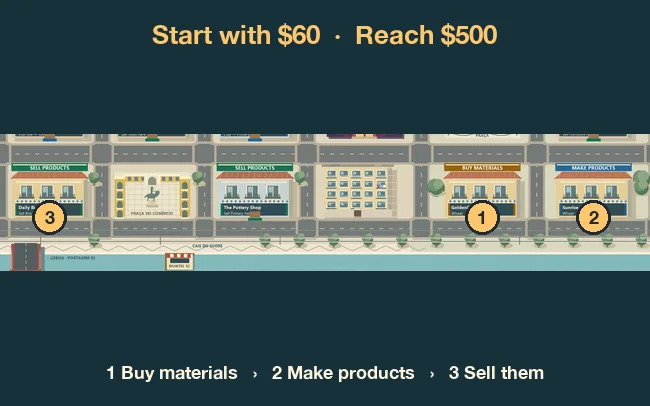
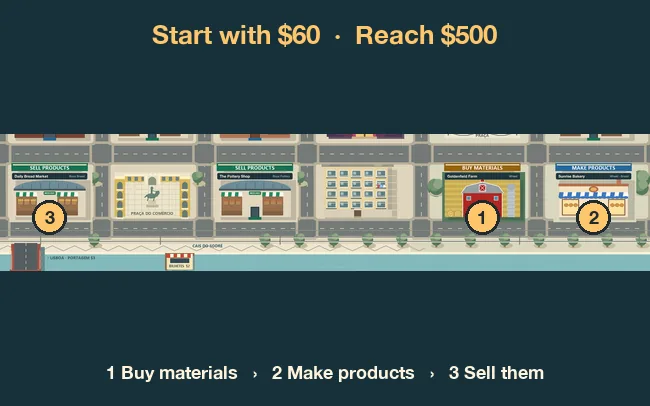
Give each trade building its own look and fix vehicles on the road
- Farms are red barns with a silo and wheat; the mine, sawmill and clay pit each have their own scene
- Each workshop looks different (ironworks, carpentry, kiln, bakery); all markets share one market hall
- Purpose signs, doors and collisions are unchanged; night versions have lit windows
- The motorbike and car sit on their shadow instead of floating, and vehicles show headlight beams at night
- Tutorial slides rebuilt with the new buildings

diff --git a/street/street.js b/street/street.js
@@ -381,12 +381,17 @@ function draw() {
   context.scale(facing < 0 ? -1 : 1, 1);
   context.fillStyle = "#1b292788";
   context.beginPath();
-  context.ellipse(0, 2, 14, 5, 0, 0, Math.PI * 2);
-  context.fill();
   if (state.vehicle) {
+    // A flat shadow right under the wheels, which touch the ground at y = 1 (the art's wheels end at
+    // 107 of its 120-pixel height), so thin vehicles like the motorcycle don't look like they float.
+    context.ellipse(0, 1, 17, 3, 0, 0, Math.PI * 2);
+    context.fill();
+    if (state.night) drawBeam(28, -10, 7, 70);  // From the headlamp at the vehicle's front
     const art = vehicleArt[state.vehicle];
-    if (art?.complete && art.naturalWidth) context.drawImage(art, -30, -34, 60, 36);
+    if (art?.complete && art.naturalWidth) context.drawImage(art, -30, -31, 60, 36);
   } else {
+    context.ellipse(0, 2, 14, 5, 0, 0, Math.PI * 2);
+    context.fill();
     drawWalker();
   }
   context.restore();
@@ -485,6 +490,21 @@ function drawShuttle(t, left, top, width, height) {
   context.restore();
 }
 
+// A soft cone of headlight, pointing along +x from the car's front (callers flip x for direction).
+function drawBeam(front, centre, halfWidth, reach = 58) {
+  const glow = context.createLinearGradient(front, 0, front + reach, 0);
+  glow.addColorStop(0, "rgba(255, 238, 170, 0.55)");
+  glow.addColorStop(1, "rgba(255, 238, 170, 0)");
+  context.fillStyle = glow;
+  context.beginPath();
+  context.moveTo(front, centre - halfWidth * 0.6);
+  context.lineTo(front + reach, centre - halfWidth * 2.1);
+  context.lineTo(front + reach, centre + halfWidth * 2.1);
+  context.lineTo(front, centre + halfWidth * 0.6);
+  context.closePath();
+  context.fill();
+}
+
 function drawStreetLife(t, left, top, width, height) {
   if (!state.life) return;
   drawTram(t, left, top, width, height);
@@ -497,6 +517,7 @@ function drawStreetLife(t, left, top, width, height) {
     context.save();
     context.translate(x, y);
     context.scale(direction, 1);
+    if (state.night) drawBeam(15, 0, 9);  // Headlights reach ahead of the car
     context.fillStyle = color;
     context.strokeStyle = "#435c5c";
     context.lineWidth = 1;
